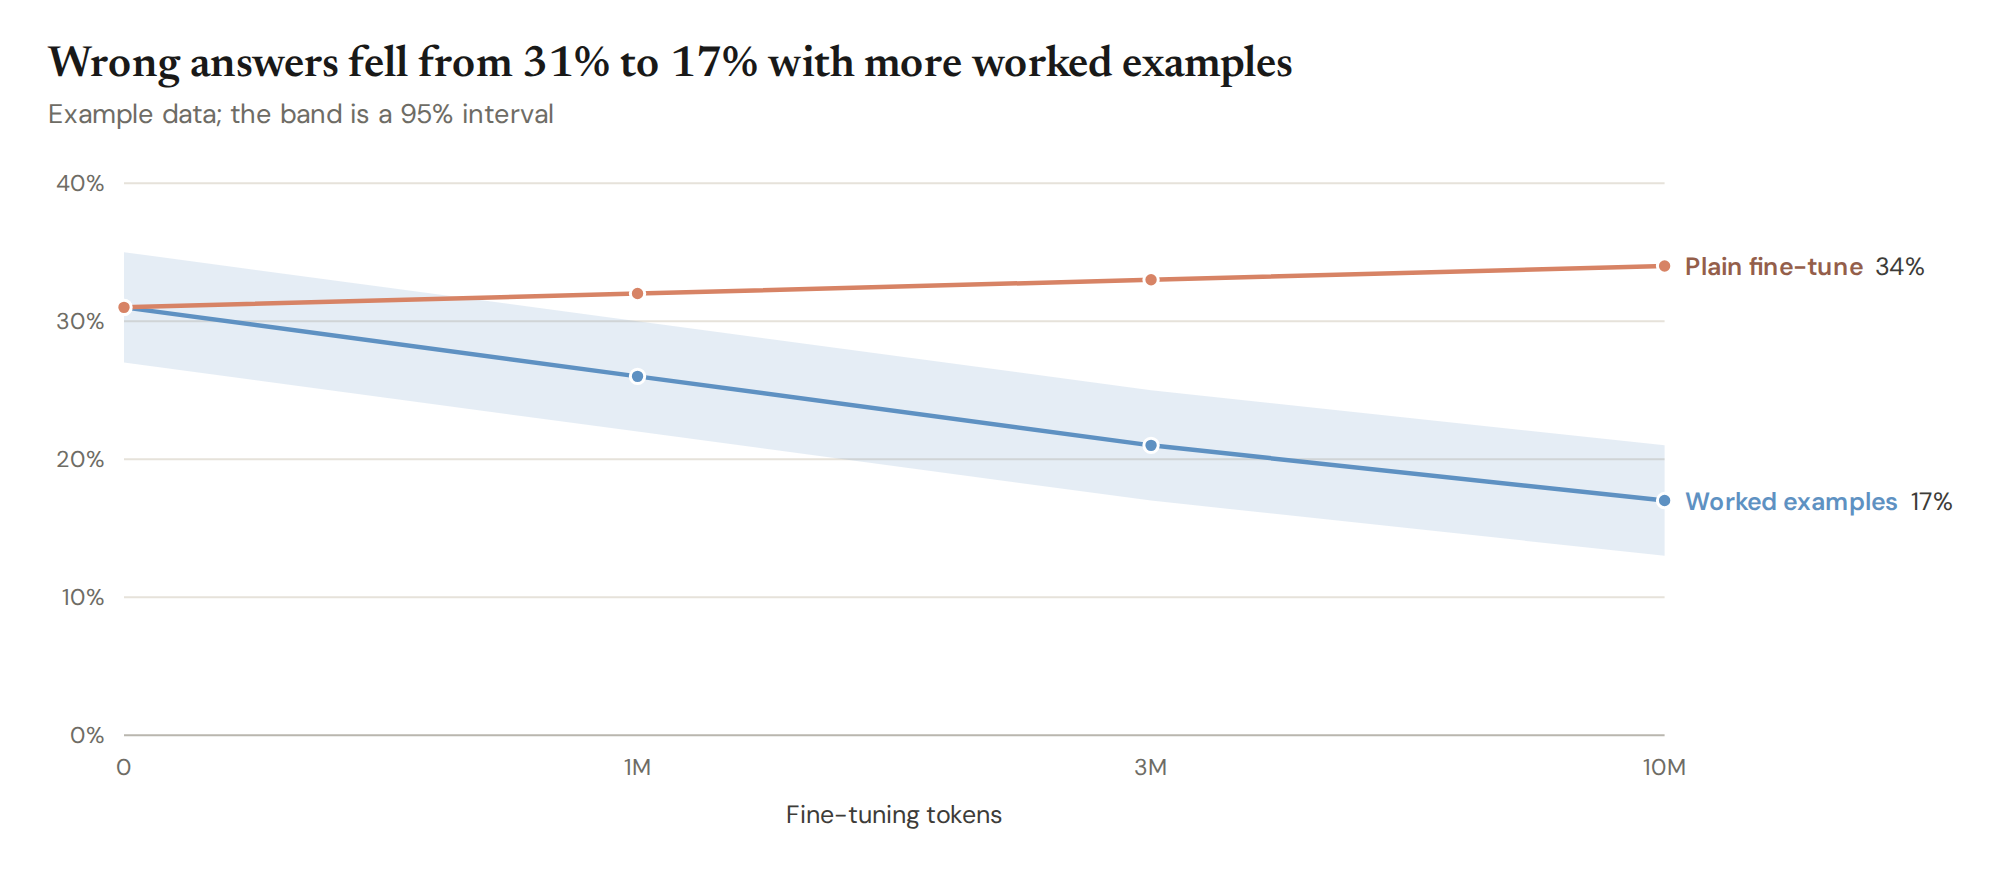
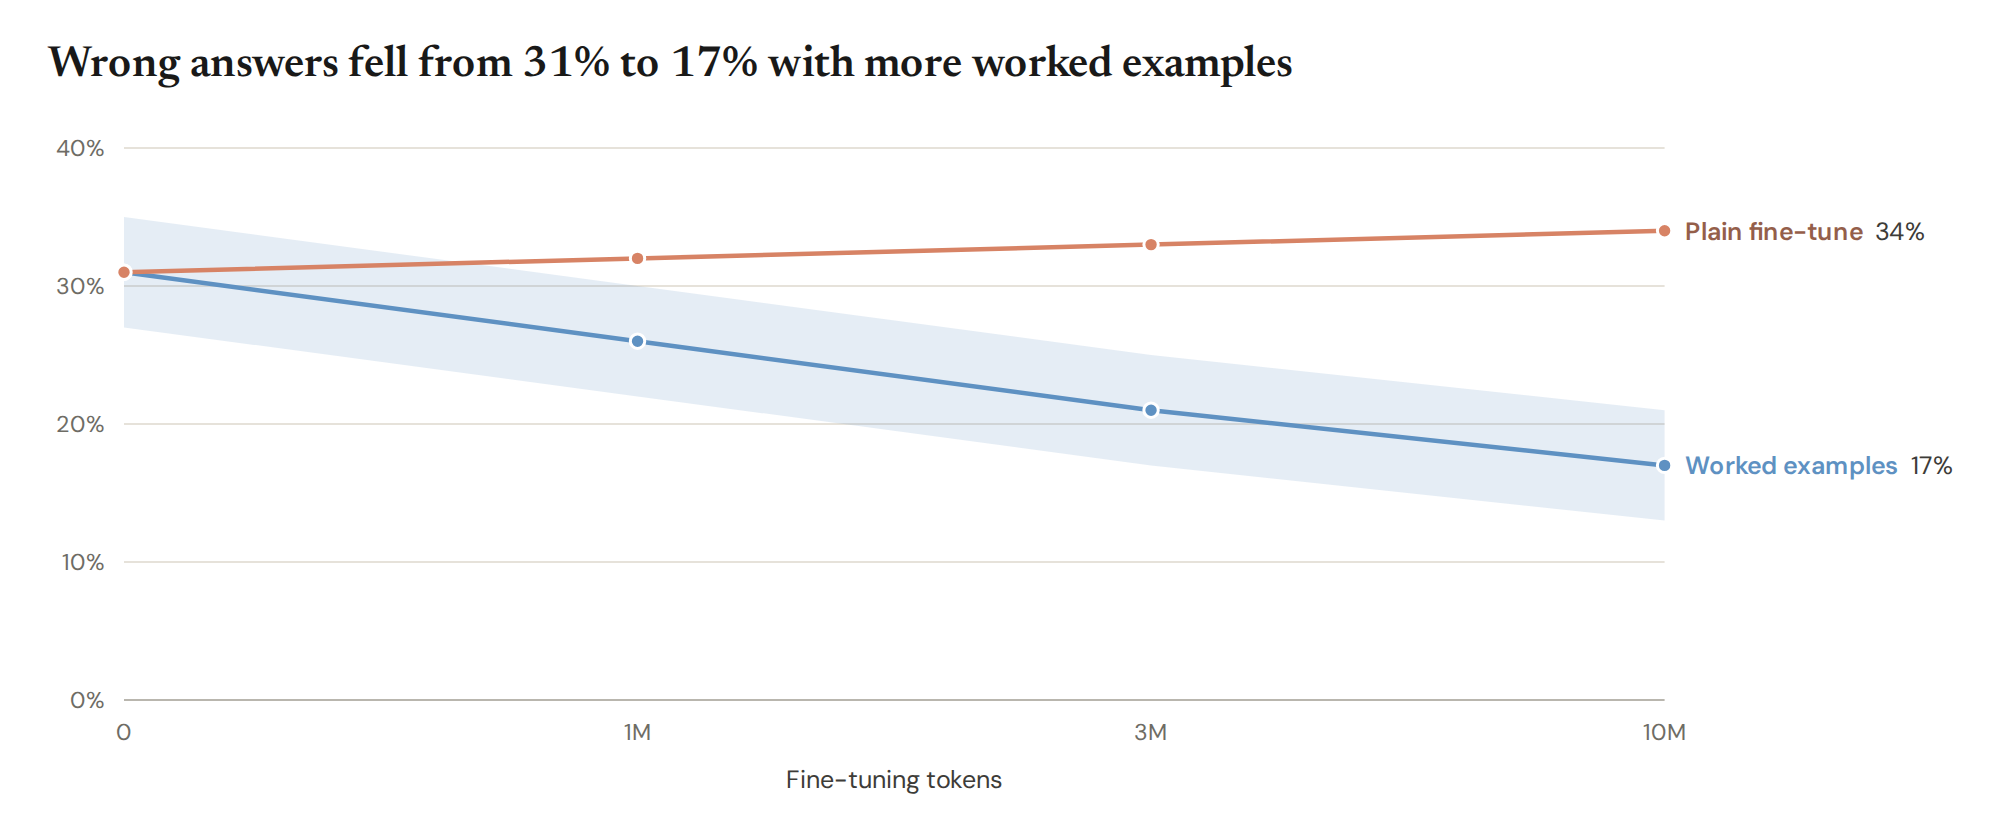
Gallery figures carry no subtitles
The README says every gallery number is made up and that error bars and bands are 95% intervals, so the
figures and the snippets that mirror them drop their "Example data" subtitles.

diff --git a/src/vellum/gallery.py b/src/vellum/gallery.py
@@ -1,4 +1,4 @@
-"""Example gallery: one figure per chart type. Every number is made up, and each figure says so in its subtitle.
+"""Example gallery: one figure per chart type, with made-up numbers and no subtitles.
 
     vellum gallery -o out/      or      python -m vellum.gallery out/
 """
@@ -62,14 +62,12 @@ def figures() -> dict[str, vl.Figure]:
     F: dict[str, vl.Figure] = {}
     F["01_hbar_sorted"] = vl.hbar(
         WRONG_BY_TOPIC, sort=True, color="coral", decimals=0,
-        title="Questions on fast-changing topics were answered wrong most often",
-        subtitle="Example data")
+        title="Questions on fast-changing topics were answered wrong most often")
     F["02_hbar_highlight"] = vl.hbar(
         {"Closed book": 41.0, "Search snippets": 63.5, "Full documents": 88.0},
         highlight="Full documents", decimals=0,
         notes={"Closed book": "164 of 400", "Search snippets": "254 of 400", "Full documents": "352 of 400"},
-        title="Full documents raised correct answers from 41% to 88%",
-        subtitle="Example data")
+        title="Full documents raised correct answers from 41% to 88%")
     F["03_tiles"] = vl.tiles(
         [[vl.Tile(412, ["agreed the answer was right", "94% of the answers people accepted"], "blue", strong=True),
           vl.Tile(38, ["accepted a wrong answer", "the costly mistake"], "coral")],
@@ -77,41 +75,35 @@ def figures() -> dict[str, vl.Figure]:
           vl.Tile(523, ["agreed the answer was wrong"], "gray")]],
         col_headers=[("People said right", "439 answers"), ("People said wrong", "561 answers")],
         row_headers=[("Grader said right", "450 answers"), ("Grader said wrong", "550 answers")],
-        title="The automatic grader agreed with people on 935 of 1,000 answers",
-        subtitle="Example data")
+        title="The automatic grader agreed with people on 935 of 1,000 answers")
     F["04_scatter"] = vl.scatter(
         SEARCHES, xunit="%", xticks=[0, 10, 20, 30, 40, 50, 60, 70], yticks=[0, 10, 20, 30, 40, 50, 60, 70, 80],
         labels=["Tech News", "Election Facts", "Health FAQ", "Sports Desk", "Recipe Box"],
         diagonal="one search per question that needs one",
         annotations=[(2, 76, "Above the line: more searches than\nquestions that needed them")],
         xlabel="Share of questions that need recent facts", ylabel="Searches per 100 questions",
-        title="Datasets with more questions about recent events drew more searches",
-        subtitle="Example data")
+        title="Datasets with more questions about recent events drew more searches")
     F["05_heatmap"] = vl.heatmap(
         FINISHED, cols=["Small", "Medium", "Large", "Huge"], col_groups=[("Long tasks", ["Large", "Huge"])],
-        title="Three of eight models finished most of the huge tasks",
-        subtitle="Example data")
+        title="Three of eight models finished most of the huge tasks")
     F["06_panels_grouped"] = vl.panels([
         vl.hbar({"Recent events": [3.10, 5.45], "Settled facts": [5.60, 5.72]}, series=["Closed book", "With search"],
                 unit="", decimals=1, domain=(1, 7), ticks=[1, 2, 3, 4, 5, 6, 7], title="Helpfulness, 1 to 7"),
         vl.hbar({"Recent events": [31.5, 74.0], "Settled facts": [80.5, 82.0]}, series=["Closed book", "With search"],
                 decimals=0, title="Would ask it again")],
-        title="With search, people rated answers on recent events higher",
-        subtitle="Example data")
+        title="With search, people rated answers on recent events higher")
     F["07_hbar_notes"] = vl.hbar(
         {"Wrong answer": 2.31, "Said it didn’t know": 3.94, "Right answer with a source": 5.86},
         colors={"Wrong answer": "coral", "Said it didn’t know": "blue", "Right answer with a source": "gray"},
         notes={"Wrong answer": "412 chats", "Said it didn’t know": "236 chats", "Right answer with a source": "1,052 chats"},
         unit="", decimals=1, ticks=[1, 2, 3, 4, 5, 6, 7],
-        title="People rated “I don’t know” higher than a wrong answer",
-        subtitle="Example data")
+        title="People rated “I don’t know” higher than a wrong answer")
     F["08_hbar_sections"] = vl.hbar(
         [("Base model", 31.0), ("Plain fine-tune (control)", 33.5), ("Worked examples", 18.2), vl.section("Other data"),
          ("Textbook passages", 27.4), ("Forum answers", 36.9), ("Short answers only", 22.6)],
         colors={"Base model": "dark", "Worked examples": "blue"}, highlight="Worked examples", decimals=0,
         ref=31.0, notes={"Forum answers": "worse than the base model"},
-        title="Worked examples cut wrong answers from 31% to 18%",
-        subtitle="Example data")
+        title="Worked examples cut wrong answers from 31% to 18%")
     F["09_quotes"] = vl.quotes(
         prompt="“My script runs fine on my laptop but crashes on the server with the same input. What should I check?”",
         replies=[vl.Reply("Worked examples", "“Start with what differs between the two machines: the Python version, the "
@@ -121,8 +113,7 @@ def figures() -> dict[str, vl.Figure]:
                  vl.Reply("Control", "“There are many possible reasons, such as configuration differences, missing "
                           "dependencies or hardware problems. Check the server logs for error messages… You could also "
                           "try reinstalling your dependencies.”", "plain fine-tune", "gray")],
-        title="The trained model narrowed the problem down instead of listing causes",
-        subtitle="Example data")
+        title="The trained model narrowed the problem down instead of listing causes")
     F["10_code_card"] = vl.code_card("search_docs", {"query": "What to look up, in a few words."}, TOOL)
     small = {"unit": "%", "decimals": 0, "ylabel": "Wrong answers", "ticks": [0, 10, 20, 30, 40, 50]}
     prompts = {"Closed book": 38.5, "Longer prompt": 36.0, "Careful prompt": 35.2, "Search": 9.5}
@@ -139,8 +130,7 @@ def figures() -> dict[str, vl.Figure]:
         vl.bars(empty, ci=wilson_cis(empty, 1200), colors=["coral", "blue", "light-blue"],
                 title="(d) When search finds nothing", **small)],
         legend={"Closed book": "coral", "Other fixes": "sage", "Search": "blue", "Search that finds nothing": "light-blue"},
-        frame="blog", title="Search cut wrong answers more than better prompts or a bigger model",
-        subtitle="Example data; error bars are 95% intervals")
+        frame="blog", title="Search cut wrong answers more than better prompts or a bigger model")
     shares = {m: 100 * won / (won + lost) for m, won, lost in PREFERENCES}
     cis = {m: wilson(won, won + lost) for m, won, lost in PREFERENCES}
     all_won, all_lost = sum(p[1] for p in PREFERENCES), sum(p[2] for p in PREFERENCES)
@@ -153,8 +143,7 @@ def figures() -> dict[str, vl.Figure]:
                 ylabel="Difference in rating (−3 to +3 scale)", title="User ratings"),
         vl.bars(shares, ci=cis, colors={"Pooled": "deep-sage"}, color="sage", decimals=0, ref=50, ticks=[0, 25, 50, 75, 100],
                 ylabel="Prefers the search version", title="Blind comparisons")],
-        title="Search won 66% of blind comparisons but did not clearly change ratings", frame="blog", legend=False,
-        subtitle="Example data; error bars are 95% intervals")
+        title="Search won 66% of blind comparisons but did not clearly change ratings", frame="blog", legend=False)
     F["13_episodes"] = vl.episodes([
         vl.Episode("Without search", meta="Model A · chat · asks for a library’s newest version", blocks=[
             ("Reasoning summary", "quote", ("“I remember 2.3 being the newest release, the one that added async support… "
@@ -166,32 +155,26 @@ def figures() -> dict[str, vl.Figure]:
                                             "I should check the release notes.”")),
             ("search_docs", "code", "“query: acmelib release notes, newest version”")],
             outcome=("Answered 3.0, with a link", "blue"))],
-        frame="blog", title="With search, the model checked the release notes instead of guessing",
-        subtitle="Example data")
+        frame="blog", title="With search, the model checked the release notes instead of guessing")
     F["14_bars_models"] = vl.bars(
         WRONG_BY_MODEL, series=["Closed book", "With search"], decimals=0, ylabel="Questions answered wrong", frame="blog",
-        title="Search cut wrong answers for all ten models",
-        subtitle="Example data")
+        title="Search cut wrong answers for all ten models")
     F["15_dumbbell"] = vl.dumbbell(
         RATINGS, series=("Closed book", "With search"), unit="", decimals=1, ticks=[1, 2, 3, 4, 5, 6, 7],
-        missing="not rated", title="Every rated model got higher helpfulness ratings with search",
-        subtitle="Example data")
+        missing="not rated", title="Every rated model got higher helpfulness ratings with search")
     F["16_waffle"] = vl.waffle(
         {"Out-of-date fact": 210, "Misread the question": 140, "Arithmetic slip": 90, "Grader error": 60},
         count_label="answers",
-        title="Out-of-date facts caused 42 in 100 wrong answers",
-        subtitle="Example data")
+        title="Out-of-date facts caused 42 in 100 wrong answers")
     F["17_line_example"] = vl.line(
         {"Worked examples": [31, 26, 21, 17], "Plain fine-tune": [31, 32, 33, 34]}, x=[0, 1, 3, 10],
         xtick_labels={0: "0", 1: "1M", 3: "3M", 10: "10M"}, xscale="category", colors=["blue", "coral"],
         bands={"Worked examples": ([27, 22, 17, 13], [35, 30, 25, 21])}, xlabel="Fine-tuning tokens",
-        title="Wrong answers fell from 31% to 17% with more worked examples",
-        subtitle="Example data; the band is a 95% interval")
+        title="Wrong answers fell from 31% to 17% with more worked examples")
     F["18_stacked_example"] = vl.stacked(
         {"Closed book": [41, 0, 59], "With search": [76, 12, 12]}, series=["Right", "Said it didn’t know", "Wrong"],
         colors=["blue", "beige", "coral"],
-        title="With search, wrong answers fell from 59% to 12%",
-        subtitle="Example data")
+        title="With search, wrong answers fell from 59% to 12%")
     return F
 
 

diff --git a/examples/README.md b/examples/README.md
@@ -12,7 +12,6 @@ vl.hbar({"Closed book": 41.0, "Search snippets": 63.5, "Full documents": 88.0},
         highlight="Full documents", decimals=0,
         notes={"Closed book": "164 of 400", "Search snippets": "254 of 400", "Full documents": "352 of 400"},
         title="Full documents raised correct answers from 41% to 88%",
-        subtitle="Example data",
         ).save("hbar_highlight.png")
 ```
 
@@ -26,7 +25,6 @@ vl.hbar([("Base model", 31.0), ("Plain fine-tune (control)", 33.5), ("Worked exa
         colors={"Base model": "dark"}, highlight="Worked examples", ref=31.0, decimals=0,
         notes={"Forum answers": "worse than the base model"},
         title="Worked examples cut wrong answers from 31% to 18%",
-        subtitle="Example data",
         ).save("hbar_sections.png")
 ```
 
@@ -42,11 +40,10 @@ vl.panels([
     vl.hbar({"Recent events": [31.5, 74.0], "Settled facts": [80.5, 82.0]}, series=series,
             decimals=0, title="Would ask it again")],
     title="With search, people rated answers on recent events higher",
-    subtitle="Example data",
     ).save("panels_grouped.png")
 ```
 
-## 4. Vertical bars in the blog frame (centered title and subtitle, legend below)
+## 4. Vertical bars in the blog frame (centered title, legend below)
 
 ```python
 import vellum as vl
@@ -54,7 +51,6 @@ from vellum.gallery import WRONG_BY_MODEL  # {"Model A": [12.5, 4.0], ...}: clos
 
 vl.bars(WRONG_BY_MODEL, series=["Closed book", "With search"], decimals=0, ylabel="Questions answered wrong",
         frame="blog", title="Search cut wrong answers for all ten models",
-        subtitle="Example data",
         ).save("bars_blog.png")
 ```
 
@@ -74,7 +70,6 @@ vl.panels([
             colors=["coral", "blue", "light-blue"], title="(b) When search finds nothing", **kw)],
     legend={"Closed book": "coral", "A bigger model": "sage", "Search": "blue", "Search that finds nothing": "light-blue"},
     frame="blog", title="Search cut wrong answers more than a model twice the size",
-    subtitle="Example data; error bars are 95% intervals",
     ).save("small_multiples.png")
 ```
 
@@ -86,7 +81,6 @@ from vellum.gallery import FINISHED  # {"Model A": [100, 100, 100, 96.7], ..., "
 
 vl.heatmap(FINISHED, cols=["Small", "Medium", "Large", "Huge"], col_groups=[("Long tasks", ["Large", "Huge"])],
            title="Three of eight models finished most of the huge tasks",
-           subtitle="Example data",
            ).save("heatmap.png")
 ```
 
@@ -103,7 +97,6 @@ vl.tiles([[T(412, ["agreed the answer was right", "94% of the answers people acc
          col_headers=[("People said right", "439 answers"), ("People said wrong", "561 answers")],
          row_headers=[("Grader said right", "450 answers"), ("Grader said wrong", "550 answers")],
          title="The automatic grader agreed with people on 935 of 1,000 answers",
-         subtitle="Example data",
          ).save("tiles.png")
 ```
 
@@ -117,7 +110,6 @@ vl.scatter(SEARCHES, xunit="%", diagonal="one search per question that needs one
            labels=["Tech News", "Election Facts", "Health FAQ", "Sports Desk"],
            xlabel="Share of questions that need recent facts", ylabel="Searches per 100 questions",
            title="Datasets with more questions about recent events drew more searches",
-           subtitle="Example data",
            ).save("scatter.png")
 ```
 
@@ -129,13 +121,11 @@ from vellum.gallery import RATINGS  # {"Model A": (5.1, 6.2), "Model C": (None, 
 
 vl.dumbbell(RATINGS, series=("Closed book", "With search"), unit="", decimals=1, ticks=[1, 2, 3, 4, 5, 6, 7],
             missing="not rated", title="Every rated model got higher helpfulness ratings with search",
-            subtitle="Example data",
             ).save("dumbbell.png")
 ```
 ```python
 vl.waffle({"Out-of-date fact": 210, "Misread the question": 140, "Arithmetic slip": 90, "Grader error": 60},
           count_label="answers", title="Out-of-date facts caused 42 in 100 wrong answers",
-          subtitle="Example data",
           ).save("waffle.png")
 ```
 
@@ -148,14 +138,12 @@ vl.line({"Worked examples": [31, 26, 21, 17], "Plain fine-tune": [31, 32, 33, 34
         xscale="category", xtick_labels={0: "0", 1: "1M", 3: "3M", 10: "10M"}, colors=["blue", "coral"],
         bands={"Worked examples": ([27, 22, 17, 13], [35, 30, 25, 21])}, xlabel="Fine-tuning tokens",
         title="Wrong answers fell from 31% to 17% with more worked examples",
-        subtitle="Example data; the band is a 95% interval",
         ).save("line.png")
 ```
 ```python
 vl.stacked({"Closed book": [41, 0, 59], "With search": [76, 12, 12]},
            series=["Right", "Said it didn’t know", "Wrong"], colors=["blue", "beige", "coral"],
            title="With search, wrong answers fell from 59% to 12%",
-           subtitle="Example data",
            ).save("stacked.png")
 ```
 
@@ -174,7 +162,6 @@ vl.quotes(
                       "dependencies or hardware problems. Check the server logs for error messages. …”",
                       "plain fine-tune", "gray")],
     title="The trained model narrowed the problem down instead of listing causes",
-    subtitle="Example data",
 ).save("quotes.png")
 
 vl.code_card("search_docs", {"query": "What to look up, in a few words."}, TOOL).save("tool.png")
@@ -193,7 +180,6 @@ vl.episodes([
                blocks=[("Reasoning summary", "quote", "“Version numbers change often… I should check the release notes.”"),
                        ("search_docs", "code", "“query: acmelib release notes, newest version”")])],
     frame="blog", title="With search, the model checked the release notes instead of guessing",
-    subtitle="Example data",
 ).save("episodes.png")
 ```
 
@@ -210,8 +196,7 @@ vl.episodes([
   "Closed book": "coral"
  },
  "highlight": "With search",
- "title": "With search, wrong answers fell from 59% to 12%",
- "subtitle": "Example data"
+ "title": "With search, wrong answers fell from 59% to 12%"
 }
 ```
 ```bash

diff --git a/README.md b/README.md
@@ -13,7 +13,6 @@ vl.hbar({"Closed book": 41.0, "Search snippets": 63.5, "Full documents": 88.0},
         highlight="Full documents", decimals=0,
         notes={"Closed book": "164 of 400", "Search snippets": "254 of 400", "Full documents": "352 of 400"},
         title="Full documents raised correct answers from 41% to 88%",
-        subtitle="Example data",
         ).save("fig.png")
 ```
 
@@ -65,7 +64,7 @@ uvx --from ~/dev/vellum vellum render spec.json -o fig.png
 
 ```json
 {"chart": "hbar", "data": {"Closed book": 59, "With search": 12}, "highlight": "With search",
- "title": "With search, wrong answers fell from 59% to 12%", "subtitle": "Example data"}
+ "title": "With search, wrong answers fell from 59% to 12%"}
 ```
 
 `vellum gallery -o out/` renders every example below. Rendering uses Playwright's headless Chromium, which
@@ -141,7 +140,7 @@ Colors are names from `vl.PALETTE`: `coral`, `blue`, `sage`, `beige`, `gray`, `d
 
 ## Gallery
 
-Every figure here uses made-up numbers and says so in its subtitle.
+Every number in these figures is made up. Error bars and bands are 95% intervals.
 
 | | |
 |---|---|
